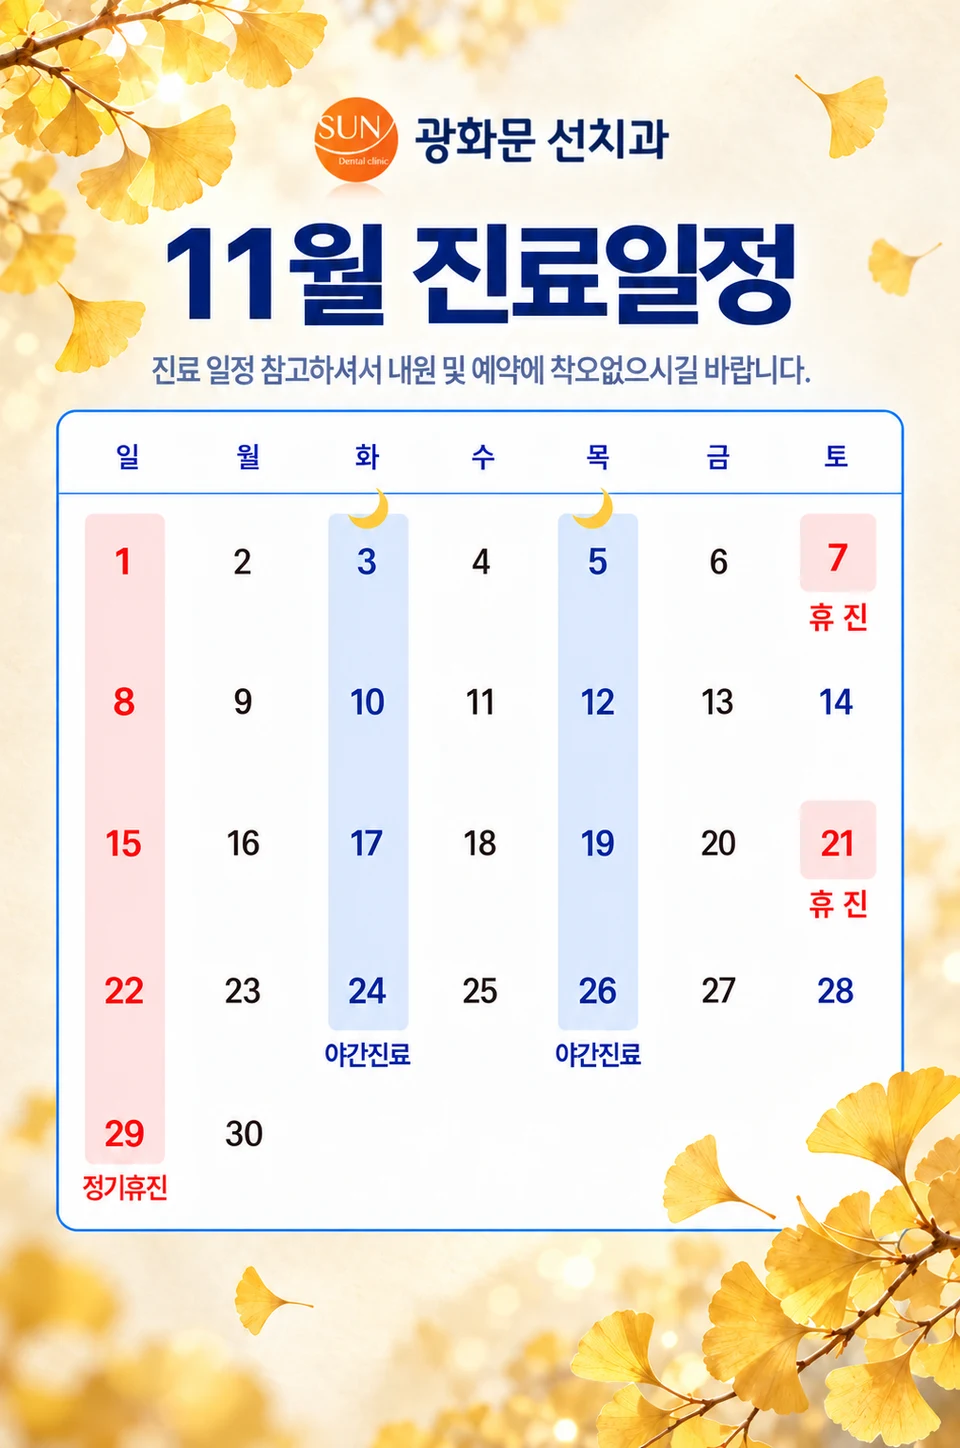
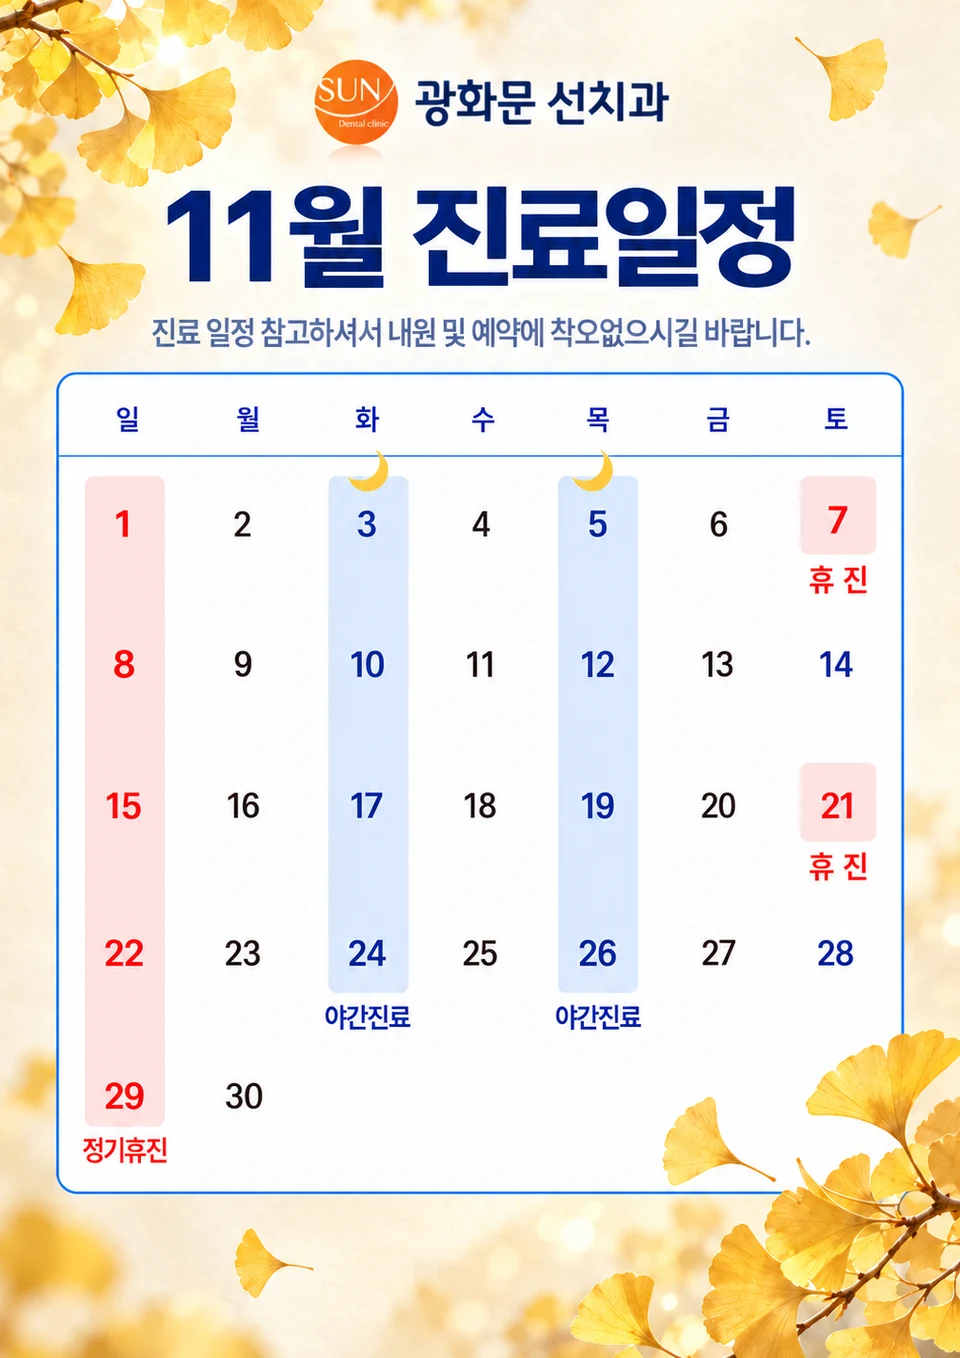
fix(popup): 세 장 크기 통일·한 단계 작게 (본부장 피드백)
- 진료일정 그림 위아래 장식을 조금 잘라 포스터와 같은 비율(1:1.415)
- 최대 폭 480 → 420px, 화면 높이 여유 108 → 160px

diff --git a/components/NoticePopup.tsx b/components/NoticePopup.tsx
@@ -8,7 +8,7 @@ import { isLive, todayKst, type Popup } from '@/lib/popups';
  * 홈 첫 화면 공지 팝업 (2026-10-29 오너 "11월 진료일정 팝업 올려줘, 사이즈 전문적인 치과처럼").
  * 목록은 관리자 화면 /admin/popup 에서 넣는다 → content/popups.json (lib/popups.ts).
  *
- * - 크기: 폭 480px 을 넘지 않고, 화면 높이·한 줄 장수(폰 1·태블릿 2·넓은 화면 3)에 맞춰 줄인다(2026-11-03).
+ * - 크기: 폭 420px 을 넘지 않고(11-03 본부장 "약간 크다" 480→420), 화면 높이·한 줄 장수(폰 1·태블릿 2·넓은 화면 3)에 맞춰 줄인다(2026-11-03).
  *   (국내 치과 사이트 공지 팝업이 대개 400~500px 폭 — 첫 화면을 다 가리지 않는 크기)
  * - 여러 개면 넓은 화면은 나란히, 폰은 하나씩(닫으면 다음 것). 높이가 모자라면 바탕이 스크롤된다.
  * - '오늘 하루 보지 않기' = localStorage 에 오늘 날짜(한국 시간)를 팝업마다 적어 둔다.
@@ -65,14 +65,14 @@ export function NoticePopup({ popups }: { popups: Popup[] }) {
       {shown.map((p, i) => {
         /* 폭 = 480px · 화면 높이에 그림+버튼이 들어가는 폭 · 한 줄 장수로 나눈 폭 중 가장 작은 것.
            (2026-11-03 오너 "모든 기기에서 에러 없이" — 세 장이 1280 화면에서 넘치고, 낮은 가로 화면에서 그림이 잘리던 것) */
-        const width = `min(480px, max(240px, calc((100dvh - 108px) * ${(p.width / p.height).toFixed(4)})), calc((100% - (var(--n) - 1) * 20px) / var(--n)))`;
+        const width = `min(420px, max(240px, calc((100dvh - 160px) * ${(p.width / p.height).toFixed(4)})), calc((100% - (var(--n) - 1) * 20px) / var(--n)))`;
         const img = (
           <Image
             src={p.image}
             alt={p.alt}
             width={p.width}
             height={p.height}
-            sizes="(max-width: 767px) calc(100vw - 40px), 480px"
+            sizes="(max-width: 767px) calc(100vw - 40px), 420px"
             className="block h-auto w-full"
             priority={i === 0}
           />
